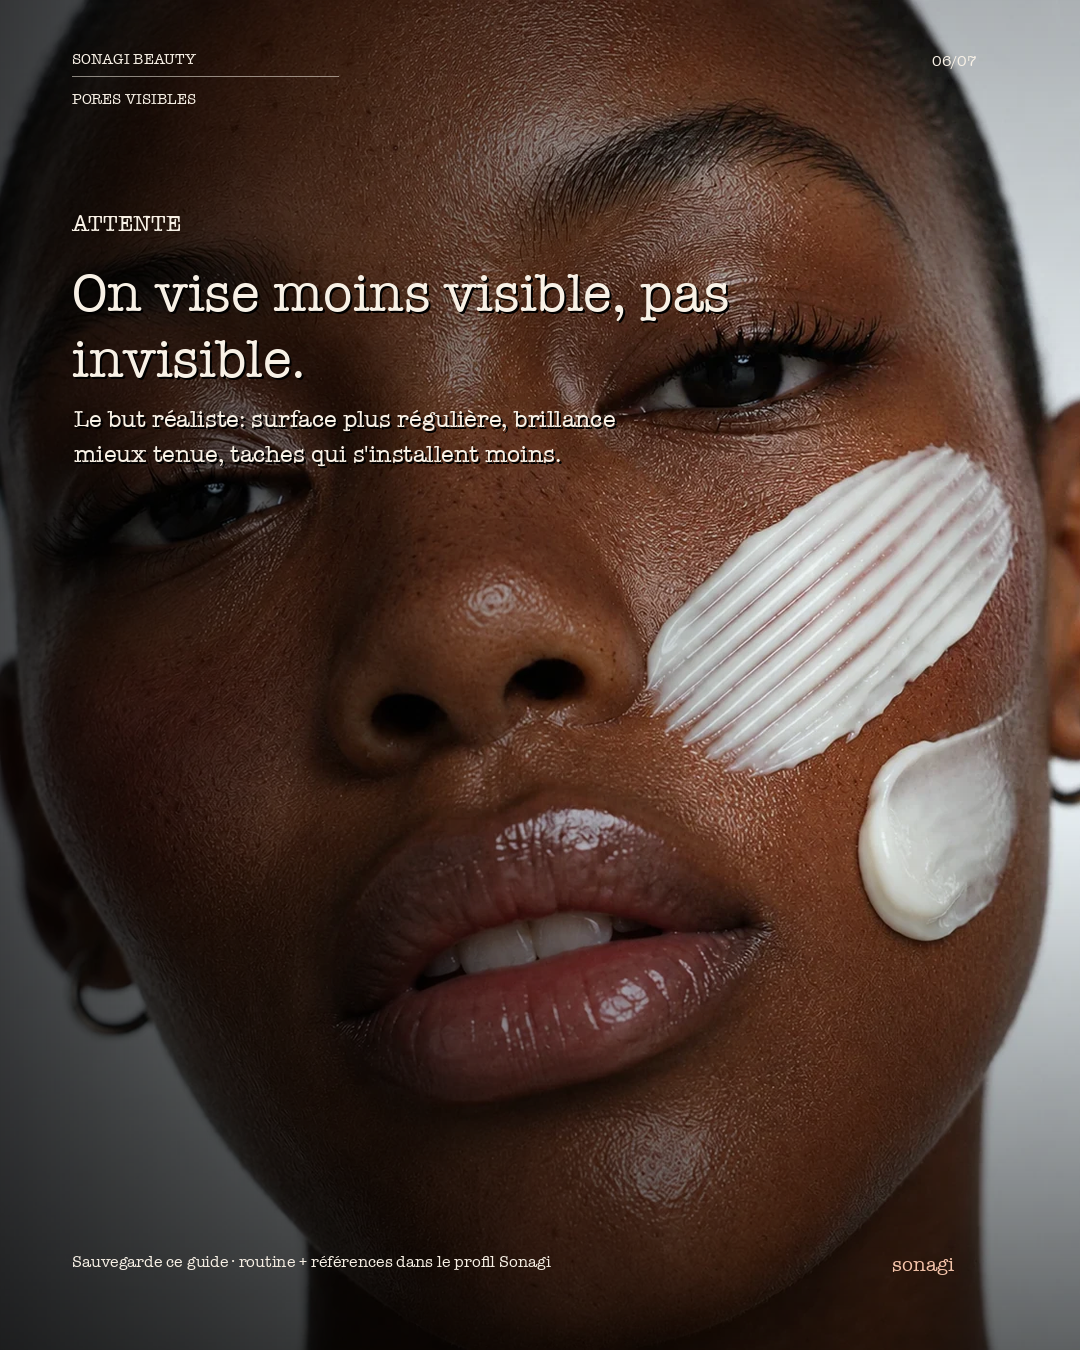
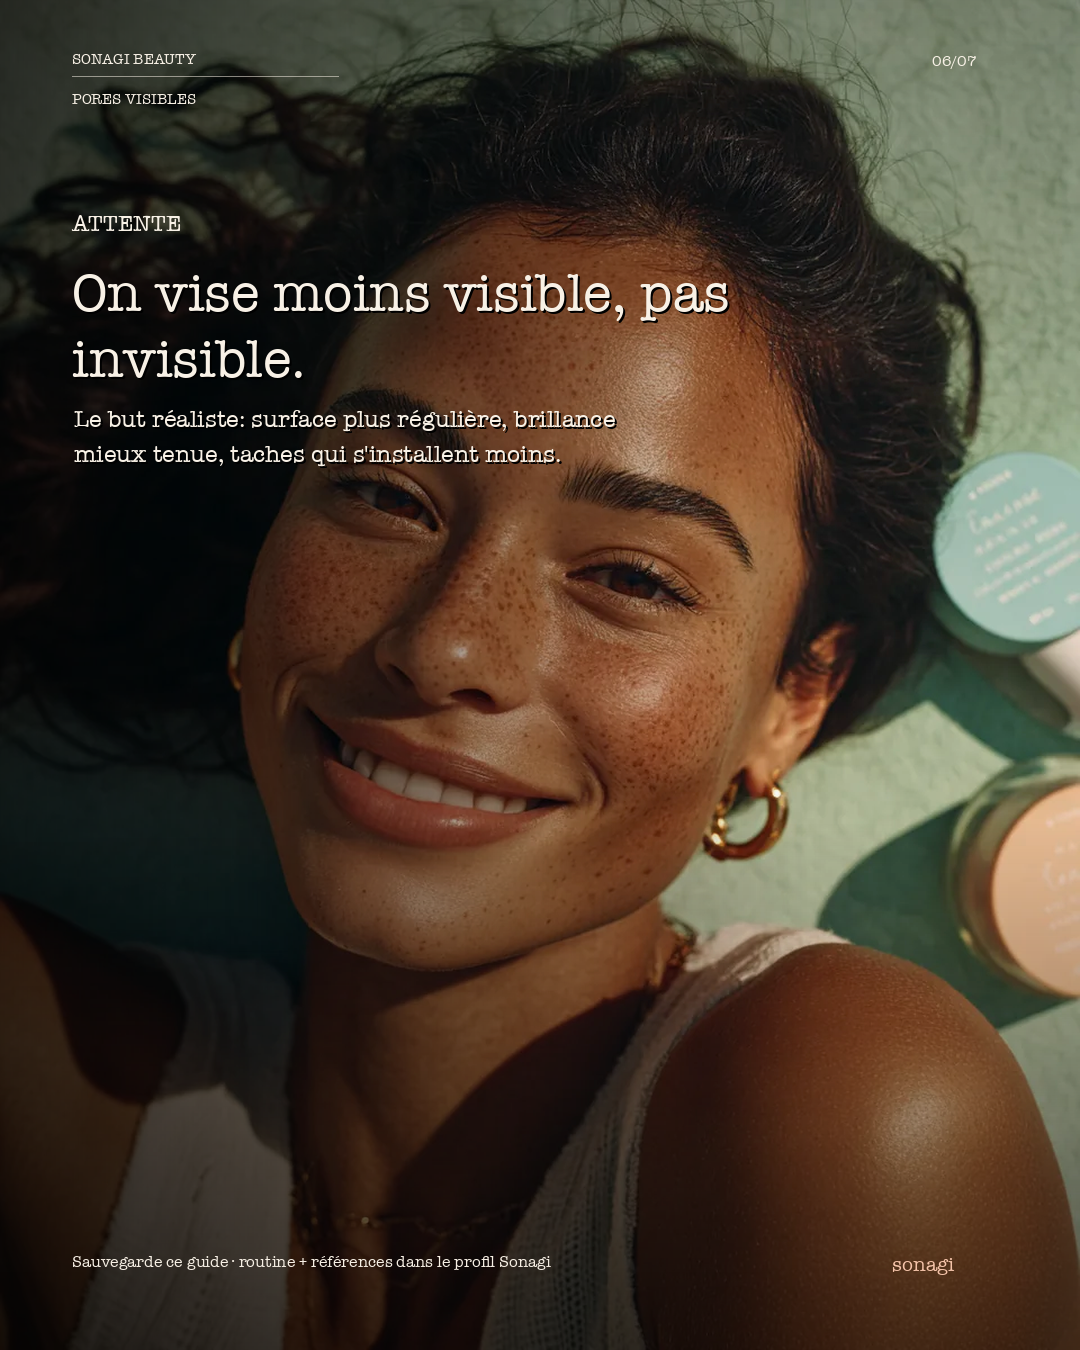
Improve launch carousel visual variety

diff --git a/social-media/instagram/french/to-be-approved/2026/june/week2/launch-carousel-bank-auteur-v1-2026-06-10/generate_launch_bank.py b/social-media/instagram/french/to-be-approved/2026/june/week2/launch-carousel-bank-auteur-v1-2026-06-10/generate_launch_bank.py
@@ -234,7 +234,7 @@ decks = [
         "quiz_url": "sonagibeauty.com/consultation.html",
         "article_url": "sonagibeauty.com/ref/basics/fr/le-ph-de-la-peau/",
         "slides": [
-            {"bg": IMG/"sections/basic-hero.webp", "kicker": "Erreur française", "title": "Le savon de Marseille est trop haut pour ton visage.", "body": "Ta peau vit autour de pH 4,5 à 5,5. Le savon classique peut monter vers 9 ou 10.", "cta": "Sauvegarde avant de laver ton visage au savon."},
+            {"bg": IMG/"techniques/double-cleansing-2.webp", "kicker": "Erreur française", "title": "Le savon de Marseille est trop haut pour ton visage.", "body": "Ta peau vit autour de pH 4,5 à 5,5. Le savon classique peut monter vers 9 ou 10.", "cta": "Sauvegarde avant de laver ton visage au savon."},
             {"bg": IMG/"basics/_originals/skin-ph-asma.png", "kicker": "Le terrain", "title": "Ta peau est acide. C'est voulu.", "body": "Ce manteau acide aide la barrière, les enzymes de réparation et l'équilibre microbien.", "visual": DIA/"le-ph-de-la-peau.webp", "cta": "Acide ne veut pas dire agressif."},
             {"bg": IMG/"techniques/double-cleansing-hero.webp", "kicker": "Le piège", "title": "Plus ça mousse, plus ça peut décaper.", "body": "La sensation de propre peut cacher une barrière déplacée vers le basique pendant plusieurs heures.", "cta": "Ne confonds pas propre et déstabilisé."},
             {"bg": IMG/"routines/routine-homme-body-3.webp", "kicker": "La règle", "title": "Cherche pH bas, pas peau qui crisse.", "body": "Les nettoyants K-beauty doux vivent souvent autour de pH 5 à 6. C'est la logique, pas le folklore.", "cta": "Le bon nettoyant laisse la peau souple."},
@@ -256,7 +256,7 @@ decks = [
             {"bg": IMG/"basics/_originals/skin-ph-asma.png", "kicker": "La zone", "title": "4,5 à 5,5 : c'est la plage utile.", "body": "Dans cette zone, la couche cornée fonctionne mieux et la barrière se répare plus proprement.", "visual": DIA/"le-ph-de-la-peau.webp", "cta": "Un chiffre peut expliquer beaucoup de tiraillements."},
             {"bg": IRIS/"018-heartleaf-body-v1.webp", "kicker": "Après nettoyage", "title": "Un toner doux aide à revenir au calme.", "body": "Il ne doit pas piquer. Il doit remettre de l'eau, du confort, et préparer la suite.", "cta": "Le toner n'est pas une punition alcoolisée."},
             {"bg": IRIS/"022-skin-flooding-body-v1.webp", "kicker": "Texture", "title": "Une peau équilibrée reflète mieux la lumière.", "body": "Le glow commence rarement par un highlighter. Il commence par une surface qui retient l'eau.", "cta": "Le pH est moins glamour, mais plus fondamental."},
-            {"bg": IMG/"sections/basic-hero.webp", "kicker": "Erreur", "title": "Le citron, le savon, l'eau chaude : trio faux ami.", "body": "Naturel ne veut pas dire compatible avec ton manteau acide.", "cta": "Simple ne veut pas dire brutal."},
+            {"bg": IMG/"techniques/double-cleansing-2.webp", "kicker": "Erreur", "title": "Le citron, le savon, l'eau chaude : trio faux ami.", "body": "Naturel ne veut pas dire compatible avec ton manteau acide.", "cta": "Simple ne veut pas dire brutal."},
             {"bg": IMG/"basics/la-barriere-cutanee-body-1.webp", "kicker": "Le lien", "title": "pH et barrière travaillent ensemble.", "body": "Quand le pH grimpe, la barrière devient plus perméable. Quand la barrière fuit, tout pique plus vite.", "cta": "Lis l'article complet pour le mécanisme."},
             {"bg": IMG/"cta/cta-community.webp", "kicker": "À faire", "title": "Teste ta routine avant de la durcir.", "body": "Si ta peau tire, commence par le nettoyage et le toner, pas par un actif plus fort.", "cta": "Placeholder shop + quiz + article."},
         ],
@@ -293,7 +293,7 @@ decks = [
             {"bg": IMG/"ingredients/niacinamide-hero.webp", "kicker": "Le levier", "title": "La niacinamide aide à réguler sans punir.", "body": "Elle vise le sébum, la barrière et l'inflammation légère. C'est plus fin qu'un produit qui décape.", "visual": DIA/"niacinamide-mechanism.webp", "cta": "Réguler bat assécher."},
             {"bg": IRIS/"022-skin-flooding-body-v1.webp", "kicker": "Hydratation", "title": "Une peau déshydratée montre plus de texture.", "body": "Avant de chercher plus fort, remets de l'eau et protège le film de surface.", "cta": "Le pore visible n'est pas toujours gras."},
             {"bg": IRIS/"018-heartleaf-body-v1.webp", "kicker": "Tolérance", "title": "Si ça pique, tu perds le bénéfice.", "body": "Un actif utile devient inutile si la routine autour rend la peau nerveuse.", "cta": "Le calme est une stratégie."},
-            {"bg": IMG/"sections/comprendre-hero.webp", "kicker": "Attente", "title": "On vise moins visible, pas invisible.", "body": "Le but réaliste: surface plus régulière, brillance mieux tenue, taches qui s'installent moins.", "cta": "Pas de filtre, juste une meilleure logique."},
+            {"bg": IMG/"techniques/skin-flooding-body-1.webp", "kicker": "Attente", "title": "On vise moins visible, pas invisible.", "body": "Le but réaliste: surface plus régulière, brillance mieux tenue, taches qui s'installent moins.", "cta": "Pas de filtre, juste une meilleure logique."},
             {"bg": IMG/"cta/cta-newsletter.webp", "kicker": "À faire", "title": "Construis autour du pore, pas contre lui.", "body": "Nettoyage doux, niacinamide, hydratation, SPF. C'est moins spectaculaire, plus durable.", "cta": "Placeholder shop + quiz + article."},
         ],
     },
@@ -329,7 +329,7 @@ decks = [
             {"bg": IMG/"basics/reparer-barriere-hero.webp", "kicker": "Erreur", "title": "Acide sur acide peut prolonger l'irritation.", "body": "Quand la barrière est déjà stressée, ajouter de l'intensité peut garder la marque visible plus longtemps.", "cta": "Moins fort peut aller plus vite."},
             {"bg": IMG/"ingredients/niacinamide-hero.webp", "kicker": "Duo", "title": "Niacinamide + mucine : duo patient.", "body": "L'une soutient la barrière et les taches. L'autre apporte le film hydratant.", "cta": "Pas glamour. Très utile."},
             {"bg": IMG/"techniques/glass-skin-2.webp", "kicker": "Application", "title": "Deux fines couches valent mieux qu'une flaque.", "body": "Sur peau légèrement humide, puis crème. Le collant vient souvent de la dose.", "cta": "La texture doit disparaître, pas étouffer."},
-            {"bg": IMG/"sections/basic-hero.webp", "kicker": "SPF", "title": "Sans SPF, la marque s'accroche.", "body": "Le matin, la réparation post-bouton finit toujours par protection solaire.", "cta": "La lumière décide souvent de la tache."},
+            {"bg": IMG/"techniques/double-cleansing-2.webp", "kicker": "SPF", "title": "Sans SPF, la marque s'accroche.", "body": "Le matin, la réparation post-bouton finit toujours par protection solaire.", "cta": "La lumière décide souvent de la tache."},
             {"bg": IMG/"cta/cta-diagnostic.webp", "kicker": "À faire", "title": "Pour les marques, commence par calmer.", "body": "Si l'acné est active ou douloureuse, ce n'est pas le rôle d'un cosmétique: demande un avis médical.", "cta": "Placeholder shop + quiz + article."},
         ],
     },
@@ -345,7 +345,7 @@ decks = [
             {"bg": IMG/"basics/reparer-barriere-hero.webp", "kicker": "Filtre", "title": "Si ta peau est acnéique active, prudence.", "body": "Le slugging scelle. S'il scelle trop de sébum, de chaleur ou de bactéries, il peut empirer le confort.", "cta": "Sauvegarde avant de tester la vaseline partout."},
             {"bg": IMG/"techniques/slugging-body.webp", "kicker": "Le principe", "title": "Ce n'est pas hydrater. C'est bloquer l'évaporation.", "body": "Le film occlusif garde l'eau sous lui. Il ne remplace pas le toner, le sérum ou la crème.", "visual": DIA/"slugging-mechanism.webp", "cta": "On scelle ce qui est déjà bien posé."},
             {"bg": IMG/"basics/hormones-age-hero.webp", "kicker": "Pour qui", "title": "Peau sèche, hiver, barrière fatiguée.", "body": "Là, le geste peut être très utile. Surtout en fine couche, pas en masque gras.", "cta": "Le slugging est une couverture, pas un traitement."},
-            {"bg": IMG/"sections/basic-hero.webp", "kicker": "À éviter", "title": "Pas sur inflammation active.", "body": "Boutons douloureux, folliculite, zone T très grasse: on adapte ou on évite.", "cta": "La tendance ne connaît pas ta peau."},
+            {"bg": IMG/"basics/la-barriere-cutanee-body-1.webp", "kicker": "À éviter", "title": "Pas sur inflammation active.", "body": "Boutons douloureux, folliculite, zone T très grasse: on adapte ou on évite.", "cta": "La tendance ne connaît pas ta peau."},
             {"bg": IRIS/"022-skin-flooding-body-v1.webp", "kicker": "Avant", "title": "Hydrate d'abord, scelle ensuite.", "body": "Une peau sèche sous vaseline reste sèche. Elle perd juste moins vite.", "cta": "La préparation fait le résultat."},
             {"bg": IMG/"sections/routine-hero.webp", "kicker": "Fréquence", "title": "Une à deux nuits suffisent souvent.", "body": "Pas besoin d'en faire une identité. Observe la peau le matin.", "cta": "Rituel intelligent, pas automatisme."},
             {"bg": IMG/"cta/cta-newsletter.webp", "kicker": "À faire", "title": "Teste en zone sèche avant tout le visage.", "body": "Si ça chauffe, gratte ou crée des boutons, arrête. Le bon soin doit simplifier la peau.", "cta": "Placeholder shop + quiz + article."},
